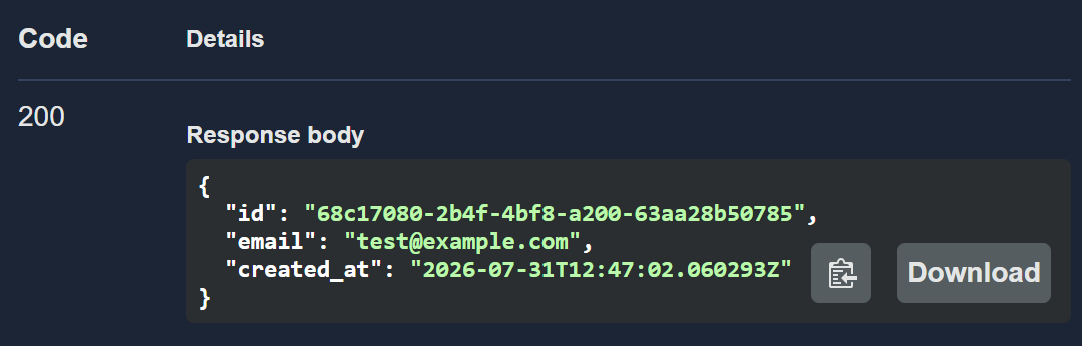
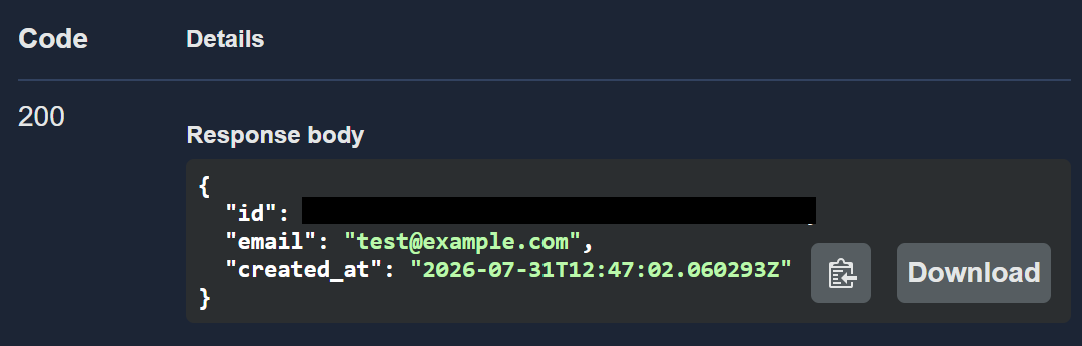
Stage 6: publish to GitHub and write README

Changed region(s): [[0.2745, 0.5491, 0.7625, 0.6647]]

diff --git a/README.md b/README.md
@@ -1,1 +1,93 @@
-setting up repo
+# FlyRank Auth API
+
+So this is the backend for my auth project. I built it to practice real authentication, not just fake routes that pretend to check stuff. It uses Supabase to handle sign up, log in, and log out, and it hands out JWT tokens so I can lock down certain routes. Protected routes only work if you send a valid token in the `Authorization` header. If the token is missing or fake, you get a 401 and that's that.
+
+The coolest part is probably the Swagger UI at `/docs`. You can see every route, click the Authorize lock, paste your token, and actually test the protected endpoints right from the browser. No Postman needed.
+
+## How it works
+
+The whole thing is a trust triangle. The client talks to Supabase, Supabase gives back a JWT, and my backend verifies that JWT before opening the door.
+
+1. Sign up or log in sends your email and password straight to Supabase.
+2. Supabase checks the credentials and gives back an access token (a JWT).
+3. The client sends that token in the `Authorization: Bearer <token>` header on every protected request.
+4. My server verifies the token with Supabase. Good token, you get your data. Bad token, 401.
+
+## What I used
+
+- Next.js (route handlers, so everything lives under `app/`)
+- @supabase/supabase-js for auth
+- swagger-ui-dist for the docs page
+- dotenv for environment variables
+- Git and GitHub for saving my work
+
+## What you need before starting
+
+- Node.js (I ran it on a recent version and it worked)
+- A free Supabase project (just go to supabase.com and make one)
+
+## Setting up your environment variables
+
+The server needs to know where your Supabase project lives and which key to use. There's a template file already in the repo.
+
+1. Copy the example file and rename it:
+
+```bash
+cp .env.example .env
+```
+
+2. Open `.env` and fill in your real values. You can find the project URL and anon key in your Supabase dashboard under Project Settings, then API.
+
+```
+SUPABASE_URL=https://your-project-ref.supabase.co
+SUPABASE_KEY=your-anon-key-here
+PORT=3000
+```
+
+Important: `.env` is gitignored, so your keys never end up on GitHub. Don't ever commit it.
+
+## How to run it
+
+```bash
+npm install
+npm run dev
+```
+
+You should see "Server running and connected to Supabase" and then the server is live on `http://localhost:3000`.
+
+Once it's running:
+
+- Open `http://localhost:3000/docs` for the interactive Swagger UI.
+- To get a token, expand POST /auth/login, hit Try it out, put your email and password in the body, and Execute. Copy the `access_token` from the response.
+- Click the Authorize button at the top, paste the token, close the box.
+- Now Try it out on `/protected/profile` and it should return your user info.
+
+## API reference
+
+| Method | Endpoint | Auth required | What it does |
+|--------|----------|---------------|--------------|
+| POST | `/auth/signup` | No | Creates a new account |
+| POST | `/auth/login` | No | Logs you in and returns the JWT |
+| POST | `/auth/logout` | Yes | Ends your session |
+| GET | `/protected/profile` | Yes | Returns your profile info |
+| GET | `/protected/dashboard` | Yes | Returns your private dashboard |
+| GET | `/public/info` | No | Public info, no token needed |
+| GET | `/api/health` | No | Health check, just confirms the server is up |
+
+## Screenshots
+
+Here's the Swagger UI with all the routes and the Authorize lock:
+
+![Swagger UI](documentation/img_4.png)
+
+Logging in through Swagger and getting a token:
+
+![Login in Swagger](documentation/img_1.png)
+
+Testing /protected/profile with a valid token:
+
+![Protected profile result](documentation/img_2.png)
+
+The server running in the terminal:
+
+![Terminal](documentation/img_3.png)
